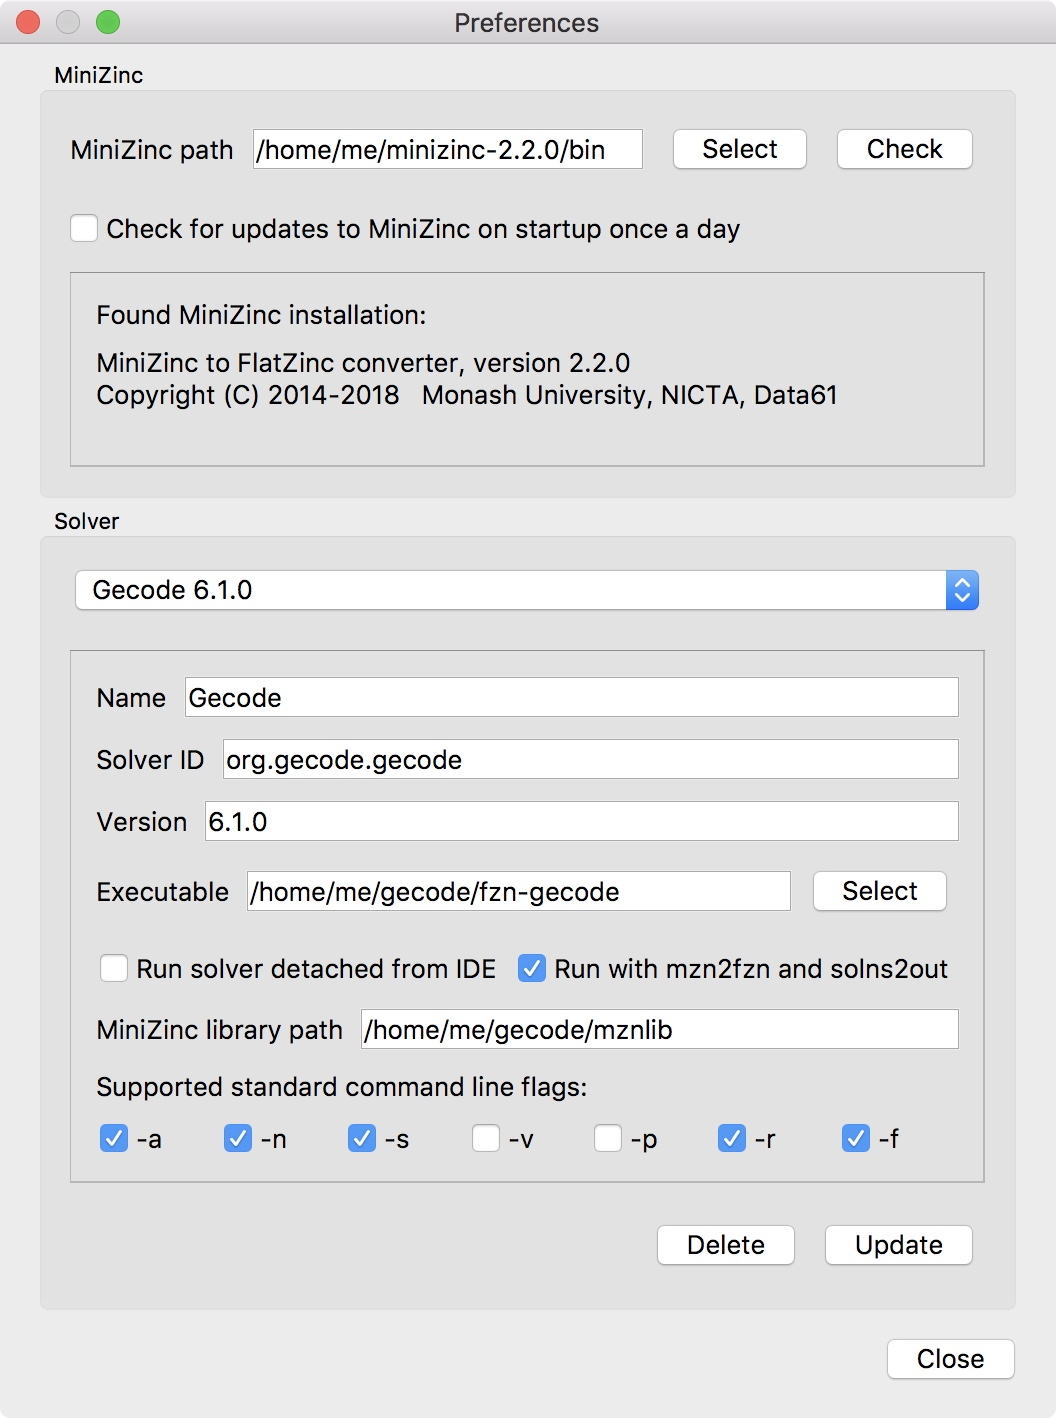
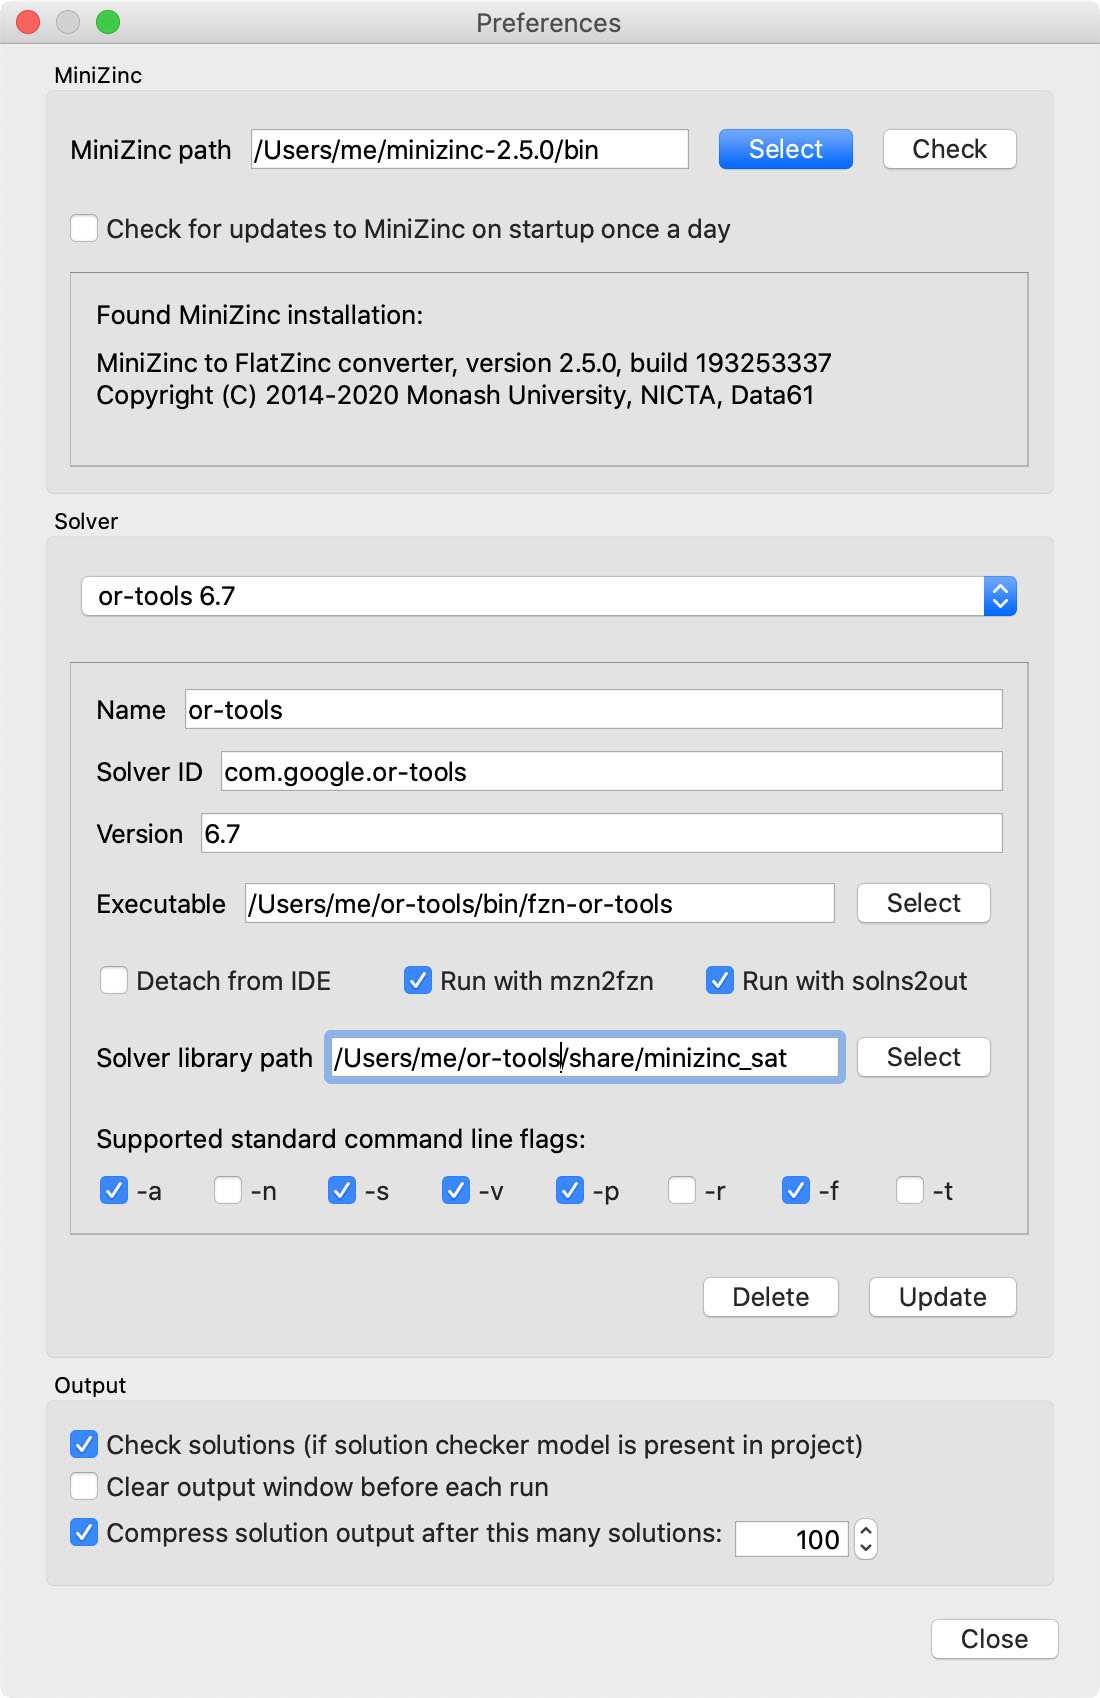
Update IDE docs for 2.5.0

diff --git a/en/minizinc_ide.rst b/en/minizinc_ide.rst
@@ -71,36 +71,21 @@ Selecting one of the built-in solvers from the drop-down menu activates its defa
     The solver configuration window
 
 
-:numref:`fig-solver-conf` shows the configuration window. The first section (marked with a ``1`` in a red circle) contains a drop-down menu to select the *solver configuration*. In this case, a built-in configuration for the COIN-BC solver was selected. You can make this configuration the default (the MiniZinc IDE will remember this setting), you can reset all values to the defaults, and you can make a clone of the configuration. Cloning a configuration is useful if you want to be able to quickly switch between different sets of options.
+:numref:`fig-solver-conf` shows the configuration window. The first section (marked with a ``1`` in a red circle) contains a drop-down menu to select the *solver configuration*. In this case, a built-in configuration for the Gecode solver was selected. You can make this configuration the default (the MiniZinc IDE will remember this setting), you can reset all values to the defaults, and you can make a clone of the configuration. Cloning a configuration is useful if you want to be able to quickly switch between different sets of options. Solver configurations can be saved once cloned/modified as ``.mpc`` files to be reused later. This is done by selecting *Save solver configuration from the *File* menu. The concrete solver used is also shown in this section.
 
-Note that any changes to the built-in configurations will be lost when you close the IDE. Any changes to a cloned configuration are saved as part of the *project* (see :numref:`ch-ide-projects`).
+The *Options* section allows you configure common settings which can remain persistent as you switch between configurations. This behaviour can be switched off by unticking the *Maintain these options across solver configurations checkbox*. This area contains two subsections described below.
 
-The *Solving* section below contains a number of general options. First of all, it shows the concrete solver used in this configuration. Below that, you can set a time limit, after which the execution will be stopped. The built-in configurations all use the "default behaviour" (marked with a ``2``), which is to print all intermediate solutions for optimisation problems, and stop after the first found solution for satisfaction problems. To change this, you can select *User-defined behavior* instead (marked with a ``3``).
+The *Solving* subsection contains a number of general options. You can set a time limit, after which the execution will be stopped. The behaviour selector controls which kinds of solutions a solver should produce. The "default behaviour" (marked with a ``2``) is to print all intermediate solutions for optimisation problems, and stop after the first found solution for satisfaction problems. To change this, you can select *User-defined behavior* instead (marked with a ``3``).
 
-The next section, *Compiler options* (marked with a ``4``), controls different aspects of the compilation from MiniZinc to FlatZinc for the selected solver. The first two checkboxes control verbosity and statistics output of the compiler. The drop-down below controls the optimisation level of the compiler, i.e., how much effort it should spend on creating the best possible FlatZinc representation for the given model. The two input fields below allow you to specify additional data (passed into the compilation as if it was part of a ``.dzn`` file) and additional command line options for the compiler.
+The *Output* subsection (marked with a ``4``) allows you to control what extra information, if any, the compiler/solver should produce. This includes verbosity options, statistics options and extra timing information where supported.
 
-The *Solver options* section (marked with a ``5``) contains configuration options for the selected solver. Only options that are supported by the solver will be available, others will be grayed out (e.g., the selected solver in :numref:`fig-solver-conf` does not support setting a random seed, or free search).
+The *Advanced Options* section contains options for more fine-grained control of the compilation and solving of your instance. These options are less commonly used, and as such the settings are unique to each solver configuration. It contains three subsections described below.
 
-Finally, the *Output options* section gives you control over the output behaviour. The first tick box enables you to clear the *Output* window automatically every time you run a model. The second option inserts timing information into the stream of solutions. The third check box (*Check solutions*) is described in :numref:`ch-ide-solution-checking` below. The *Compress solution output* option is useful for problems that produce a lot (read: thousands) of solutions, which can slow down and clutter the output window. The compression works by printing just the number of solutions rather than the solutions themselves. For example, the following model would produce 1000 solutions when run with *User-defined behavior* and solution limit set to 0:
+The *Compiling* subsection (marked with a ``5``) controls different aspects of the compilation from MiniZinc to FlatZinc for the selected solver. The drop-down controls the optimisation level of the compiler, i.e., how much effort it should spend on creating the best possible FlatZinc representation for the given model. The input field below allows you to specify additional data (passed into the compilation as if it was part of a ``.dzn`` file).
 
-.. code-block:: minizinc
+The *Solving* subsection (marked with a ``6``) contains configuration options for the selected solver, such as the number of threads to use for solvers which support parallelism, the seed to use for random number generation, and whether or not to enable free search (i.e. permitting the solver to ignore search annotations). Only options that are supported by the solver will be available, others will be greyed out.
 
-  var 1..1000: x;
-  solve satisfy;
-
-When runnning with compression set to 100, MiniZinc will output the first 100 solutions, and then a sequence of output like this:
-
-.. code-block:: none
-
-  [ 100 more solutions ]
-  [ 200 more solutions ]
-  [ 400 more solutions ]
-  [ 199 more solutions ]
-  x = 1000;
-  ----------
-  ==========
-  
-The number of solutions captured by one of the ``... more solutions`` lines is doubled each time, in order to keep the overall output low. The last solution produced by the solver will always be printed (since, in the case of optimisation problems, the last solution is the best one found).
+Finally, the *Extra configuration parameters* subsection allows you to enter any extra options supported by a solver, as well as custom ones where necessary. These options are passed to the ``minizinc`` command in the same manner as described in :numref:`ch-param-files`. The *Add parameter* button (marked with a ``7``) opens a drop-down presenting any known options supported by a solver (with a convenience option to add all of them), as well as an option to add a custom parameter. The values associated with each added parameter can be edited by double clicking on the corresponding *Value* cell in the table. Adding a custom parameter requires you to  specify the corresponding command-line flag in the first column, the data-type in the second, and the value in the third. The *Remove parameter* button can be used to remove the currently highlighted parameters.
 
 .. _ch-ide-solution-checking:
 
@@ -252,6 +237,36 @@ Some solvers open an independent application with its own graphical user interfa
 Finally, you can select which command line flags are supported by the solver. This controls which options will be available in the solver configuration window.
 
 Solver configurations that are edited or created through the IDE are saved in a configuration file in a standard location. These solvers are therefore available the next time the IDE is started, as well as through the ``minizinc`` command line tool.
+
+Output options
+~~~~~~~~~~~~~~
+
+There are also a number of output-related options. The first tick box (*Check solutions*) enables checking as described in :numref:`ch-ide-solution-checking`. The second tick box enables you to clear the *Output* window automatically every time you run a model. The third *Compress solution output* option is useful for problems that produce a lot (read: thousands) of solutions, which can slow down and clutter the output window. The compression works by printing just the number of solutions rather than the solutions themselves. For example, the following model would produce 1000 solutions when run with *User-defined behavior* and solution limit set to 0:
+
+.. code-block:: minizinc
+
+  var 1..1000: x;
+  solve satisfy;
+
+When runnning with compression set to 100, MiniZinc will output the first 100 solutions, and then a sequence of output like this:
+
+.. code-block:: none
+
+  [ 99 more solutions ]
+  x = 200;
+  ----------
+  [ 199 more solutions ]
+  x = 400;
+  ----------
+  [ 399 more solutions ]
+  x = 800;
+  ----------
+  [ 199 more solutions ]
+  x = 1000;
+  ----------
+  ==========
+  
+The number of solutions captured by one of the ``... more solutions`` lines is doubled each time, in order to keep the overall output low. The last solution produced by the solver will always be printed (since, in the case of optimisation problems, the last solution is the best one found).
 
 .. .. _sec-ide-vis:
 ..
